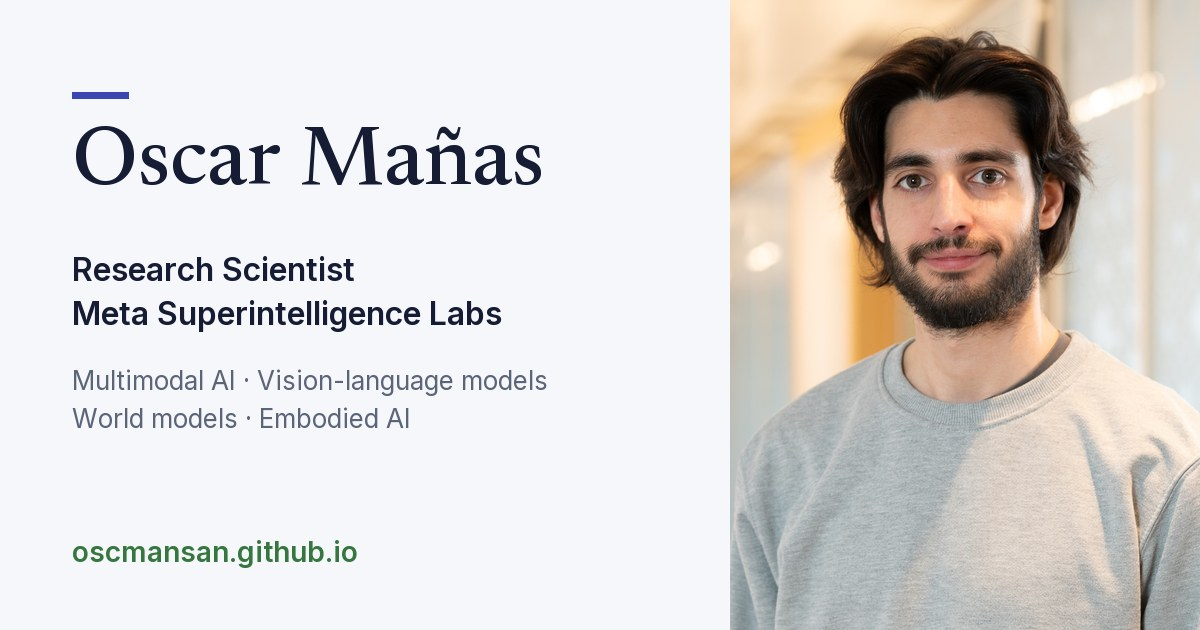
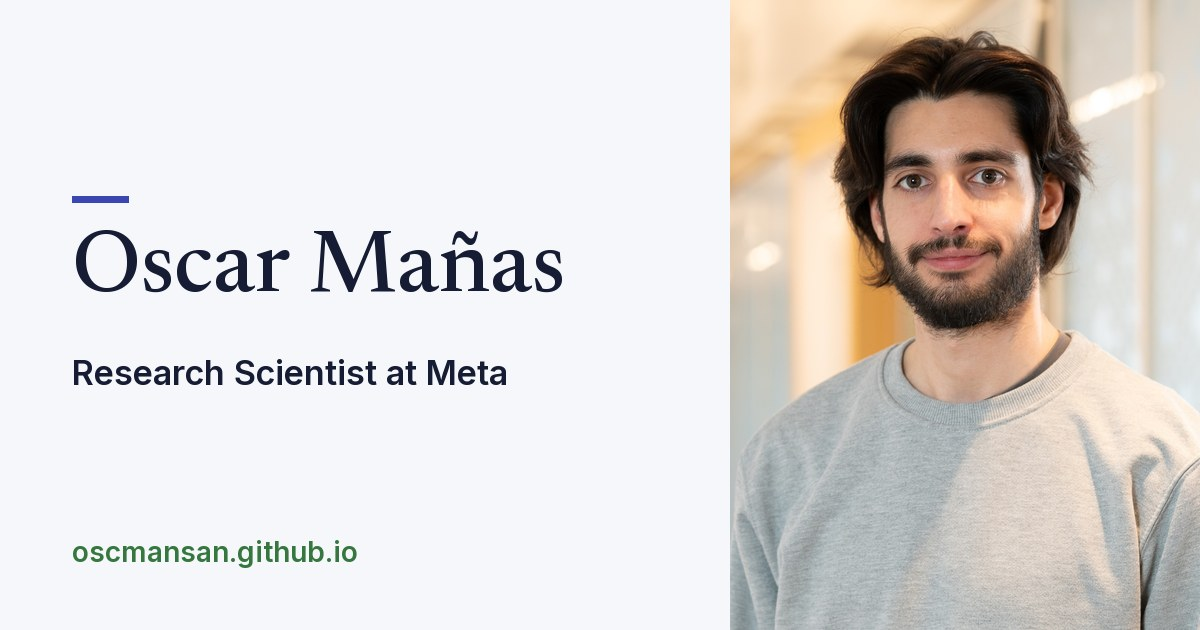
Simplify share card: drop topic tags, say Meta

Changed region(s): [[0.0617, 0.3619, 0.4933, 0.5429], [0.0617, 0.1206, 0.4625, 0.3317], [0.0617, 0.573, 0.4625, 0.6937]]

diff --git a/scripts/og_image.py b/scripts/og_image.py
@@ -2,7 +2,7 @@
 """Generate the 1200x630 social share card (og:image) into images/og-card.jpg.
 
 This is the preview LinkedIn, Slack, X, etc. show for links to the site.
-Text on the left (name, role, topics, URL), portrait on the right, in the
+Text on the left (name, role, URL), portrait on the right, in the
 Sonoma palette. images/og-image.jpg stays the square portrait used by JSON-LD.
 
 Usage (from the repo root):
@@ -22,30 +22,16 @@ OUT = ROOT / "images" / "og-card.jpg"
 
 W, H = 1200, 630
 PHOTO_W = 470  # portrait column on the right
-PAPER, INK, MUTED = "#f5f7fb", "#151c33", "#5b6478"
+PAPER, INK = "#f5f7fb", "#151c33"
 INDIGO, GREEN = "#3a47b3", "#36773f"
 
 NAME = "Oscar Mañas"
-ROLE = ["Research Scientist", "Meta Superintelligence Labs"]
-TOPICS = "Multimodal AI · Vision-language models · World models · Embodied AI"
+ROLE = "Research Scientist at Meta"
 URL = "oscmansan.github.io"
 
 
 def font(name, size):
     return ImageFont.truetype(str(FONTS / name), size)
-
-
-def wrap(draw, text, fnt, width):
-    """Greedy wrap on the ' · ' separators so topics never split mid-phrase."""
-    lines, cur = [], ""
-    for part in text.split(" · "):
-        trial = f"{cur} · {part}" if cur else part
-        if draw.textlength(trial, font=fnt) <= width:
-            cur = trial
-        else:
-            lines.append(cur)
-            cur = part
-    return lines + [cur]
 
 
 def main():
@@ -56,23 +42,12 @@ def main():
     card.paste(photo, (W - PHOTO_W, 0))
 
     d = ImageDraw.Draw(card)
-    x, text_w = 72, W - PHOTO_W - 72 - 48
+    x = 72
 
-    d.rectangle([x, 92, x + 56, 98], fill=INDIGO)  # heading bar, as on the site
-    d.text((x, 122), NAME, font=font("Newsreader-Medium.ttf", 84), fill=INK)
-
-    y = 250
-    role_font = font("Inter-SemiBold.ttf", 32)
-    for line in ROLE:
-        d.text((x, y), line, font=role_font, fill=INK)
-        y += 44
-
-    y += 26
-    topic_font = font("Inter-Regular.ttf", 26)
-    for line in wrap(d, TOPICS, topic_font, text_w):
-        d.text((x, y), line, font=topic_font, fill=MUTED)
-        y += 38
-
+    # Block of bar + name + role, vertically centred; URL pinned to the bottom
+    d.rectangle([x, 196, x + 56, 202], fill=INDIGO)  # heading bar, as on the site
+    d.text((x, 226), NAME, font=font("Newsreader-Medium.ttf", 88), fill=INK)
+    d.text((x, 352), ROLE, font=font("Inter-SemiBold.ttf", 34), fill=INK)
     d.text((x, H - 96), URL, font=font("Inter-SemiBold.ttf", 28), fill=GREEN)
 
     card.save(OUT, quality=88, optimize=True, progressive=True)
